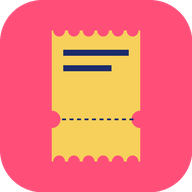
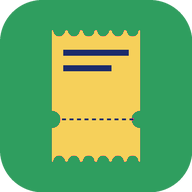
전체 색을 초록으로 (버튼, 아이콘, 책갈피)

diff --git a/public/index.html b/public/index.html
@@ -8,7 +8,7 @@
 <meta property="og:title" content="TICKET BOOK">
 <meta property="og:description" content="포스터 한 장 올리면 나만의 티켓·팔찌 기록이 완성돼요">
 <meta property="og:type" content="website">
-<meta name="theme-color" content="#ff4f79">
+<meta name="theme-color" content="#2f9e5f">
 <link rel="icon" href="/icon-192.png">
 <link rel="apple-touch-icon" href="/icon-192.png">
 <link rel="manifest" href="/manifest.webmanifest">
@@ -23,16 +23,16 @@
 /* Layout: one phone-width app column; journal-spread preview on top, felt-swatch controls below, sticky action bar */
 :root{
   --bg:#eceef3; --surface:#ffffff; --sunk:#f4f5f8; --ink:#17181c; --muted:#6b6f7b; --line:#dcdfe6;
-  --accent:#ff4f79; --accent-ink:#ffffff; --focus:#2f6bff;
+  --accent:#2f9e5f; --accent-ink:#ffffff; --focus:#2f6bff;
   --f-ui:"IBM Plex Sans KR",system-ui,-apple-system,"Apple SD Gothic Neo",sans-serif;
   --f-band:"IBM Plex Sans KR","Apple SD Gothic Neo",sans-serif;
 }
 @media (prefers-color-scheme: dark){:root:not([data-theme="light"]){
   --bg:#121317; --surface:#1c1d23; --sunk:#25262d; --ink:#eef0f5; --muted:#9a9eab; --line:#30323b;
-  --accent:#ff6a8e; --accent-ink:#1a0c11; --focus:#7aa2ff; color-scheme:dark}}
+  --accent:#5fcf8c; --accent-ink:#0c1a12; --focus:#7aa2ff; color-scheme:dark}}
 :root[data-theme="dark"]{
   --bg:#121317; --surface:#1c1d23; --sunk:#25262d; --ink:#eef0f5; --muted:#9a9eab; --line:#30323b;
-  --accent:#ff6a8e; --accent-ink:#1a0c11; --focus:#7aa2ff; color-scheme:dark}
+  --accent:#5fcf8c; --accent-ink:#0c1a12; --focus:#7aa2ff; color-scheme:dark}
 *{box-sizing:border-box}
 [hidden]{display:none!important}
 html,body{background:var(--bg);color:var(--ink)}
@@ -383,7 +383,7 @@ function render(ctx,rec,t=1){
   for(let i=0;i<900;i++){ctx.fillStyle=`rgba(90,80,70,${r()*.07})`;ctx.fillRect(r()*W,r()*H,3,1)}
   const px=40,py=150,pw=1000,ph=1060,mid=W/2;
   // bookmark ribbon
-  ctx.fillStyle='#ff6a2b';ctx.beginPath();ctx.moveTo(300,py+ph-20);ctx.lineTo(326,py+ph-20);ctx.lineTo(326,py+ph+90);ctx.lineTo(313,py+ph+76);ctx.lineTo(300,py+ph+90);ctx.closePath();ctx.fill();
+  ctx.fillStyle='#2f9e5f';ctx.beginPath();ctx.moveTo(300,py+ph-20);ctx.lineTo(326,py+ph-20);ctx.lineTo(326,py+ph+90);ctx.lineTo(313,py+ph+76);ctx.lineTo(300,py+ph+90);ctx.closePath();ctx.fill();
   // pages
   ctx.save();ctx.shadowColor='rgba(0,0,0,.22)';ctx.shadowBlur=30;ctx.shadowOffsetY=12;ctx.fillStyle=pageFill(rec);ctx.fillRect(px,py,pw,ph);ctx.restore();
   for(let k=1;k<=4;k++){ctx.strokeStyle='rgba(0,0,0,.06)';ctx.lineWidth=1;ctx.strokeRect(px-k*2,py+k*1.5,pw+k*4,ph)}
@@ -614,7 +614,7 @@ function spreadBase(ctx,seed,paper){
   ctx.fillStyle='#e7e4df';ctx.fillRect(0,0,W,H);
   for(let i=0;i<900;i++){ctx.fillStyle=`rgba(90,80,70,${r()*.07})`;ctx.fillRect(r()*W,r()*H,3,1)}
   const px=40,py=150,pw=1000,ph=1060,mid=W/2;
-  ctx.fillStyle='#ff6a2b';ctx.beginPath();ctx.moveTo(300,py+ph-20);ctx.lineTo(326,py+ph-20);ctx.lineTo(326,py+ph+90);ctx.lineTo(313,py+ph+76);ctx.lineTo(300,py+ph+90);ctx.closePath();ctx.fill();
+  ctx.fillStyle='#2f9e5f';ctx.beginPath();ctx.moveTo(300,py+ph-20);ctx.lineTo(326,py+ph-20);ctx.lineTo(326,py+ph+90);ctx.lineTo(313,py+ph+76);ctx.lineTo(300,py+ph+90);ctx.closePath();ctx.fill();
   ctx.save();ctx.shadowColor='rgba(0,0,0,.22)';ctx.shadowBlur=30;ctx.shadowOffsetY=12;ctx.fillStyle=pageFill({paper});ctx.fillRect(px,py,pw,ph);ctx.restore();
   for(let k=1;k<=4;k++){ctx.strokeStyle='rgba(0,0,0,.06)';ctx.lineWidth=1;ctx.strokeRect(px-k*2,py+k*1.5,pw+k*4,ph)}
   ctx.save();ctx.beginPath();ctx.rect(px,py,pw,ph);ctx.clip();
@@ -649,7 +649,7 @@ function renderCover(ctx,cfg=coverCfg()){
   const labelText=(cfg.label||'').trim()||`팔찌 ${nb}개 · 티켓 ${nt}장`;
   ctx.save();ctx.translate(px+235,py+730);ctx.rotate(-.04);
   ctx.shadowColor='rgba(0,0,0,.2)';ctx.shadowBlur=10;ctx.shadowOffsetY=4;ctx.fillStyle='#fffdf7';ctx.fillRect(-180,-55,360,110);ctx.shadowColor='transparent';
-  ctx.strokeStyle='rgba(255,79,121,.3)';ctx.lineWidth=2;ctx.beginPath();ctx.moveTo(-160,24);ctx.lineTo(160,24);ctx.stroke();
+  ctx.strokeStyle='rgba(47,158,95,.35)';ctx.lineWidth=2;ctx.beginPath();ctx.moveTo(-160,24);ctx.lineTo(160,24);ctx.stroke();
   ctx.textAlign='center';fitFont(ctx,labelText,300,30,'"Gamja Flower","Nanum Pen Script",cursive','400');ctx.fillStyle='#2a2c33';ctx.fillText(labelText,0,12);
   ctx.fillStyle='rgba(255,214,120,.75)';ctx.save();ctx.translate(0,-55);ctx.rotate(.05);ctx.fillRect(-70,-18,140,36);ctx.restore();
   ctx.restore();
@@ -669,7 +669,7 @@ function renderEnd(ctx){
   ctx.fillText('다음 티켓을',(px+mid)/2,py+ph/2-30);ctx.fillText('기다리는 중...',(px+mid)/2,py+ph/2+40);
   const bx=mid+80,by=py+260,bw=pw/2-160,bh=520;
   ctx.setLineDash([16,12]);ctx.strokeStyle='#b8bac2';ctx.lineWidth=4;ctx.beginPath();ctx.roundRect(bx,by,bw,bh,30);ctx.stroke();ctx.setLineDash([]);
-  ctx.fillStyle='#ff4f79';ctx.font=`700 150px ${F_HAND}`;ctx.fillText('+',bx+bw/2,by+bh/2+20);
+  ctx.fillStyle='#2f9e5f';ctx.font=`700 150px ${F_HAND}`;ctx.fillText('+',bx+bw/2,by+bh/2+20);
   ctx.textAlign='left';gutter(ctx,py,ph);ctx.restore();
 }
 /* ---------- 앞표지 (I ♥ ( )) · 뒤표지 (티켓 테두리 로고) ---------- */
